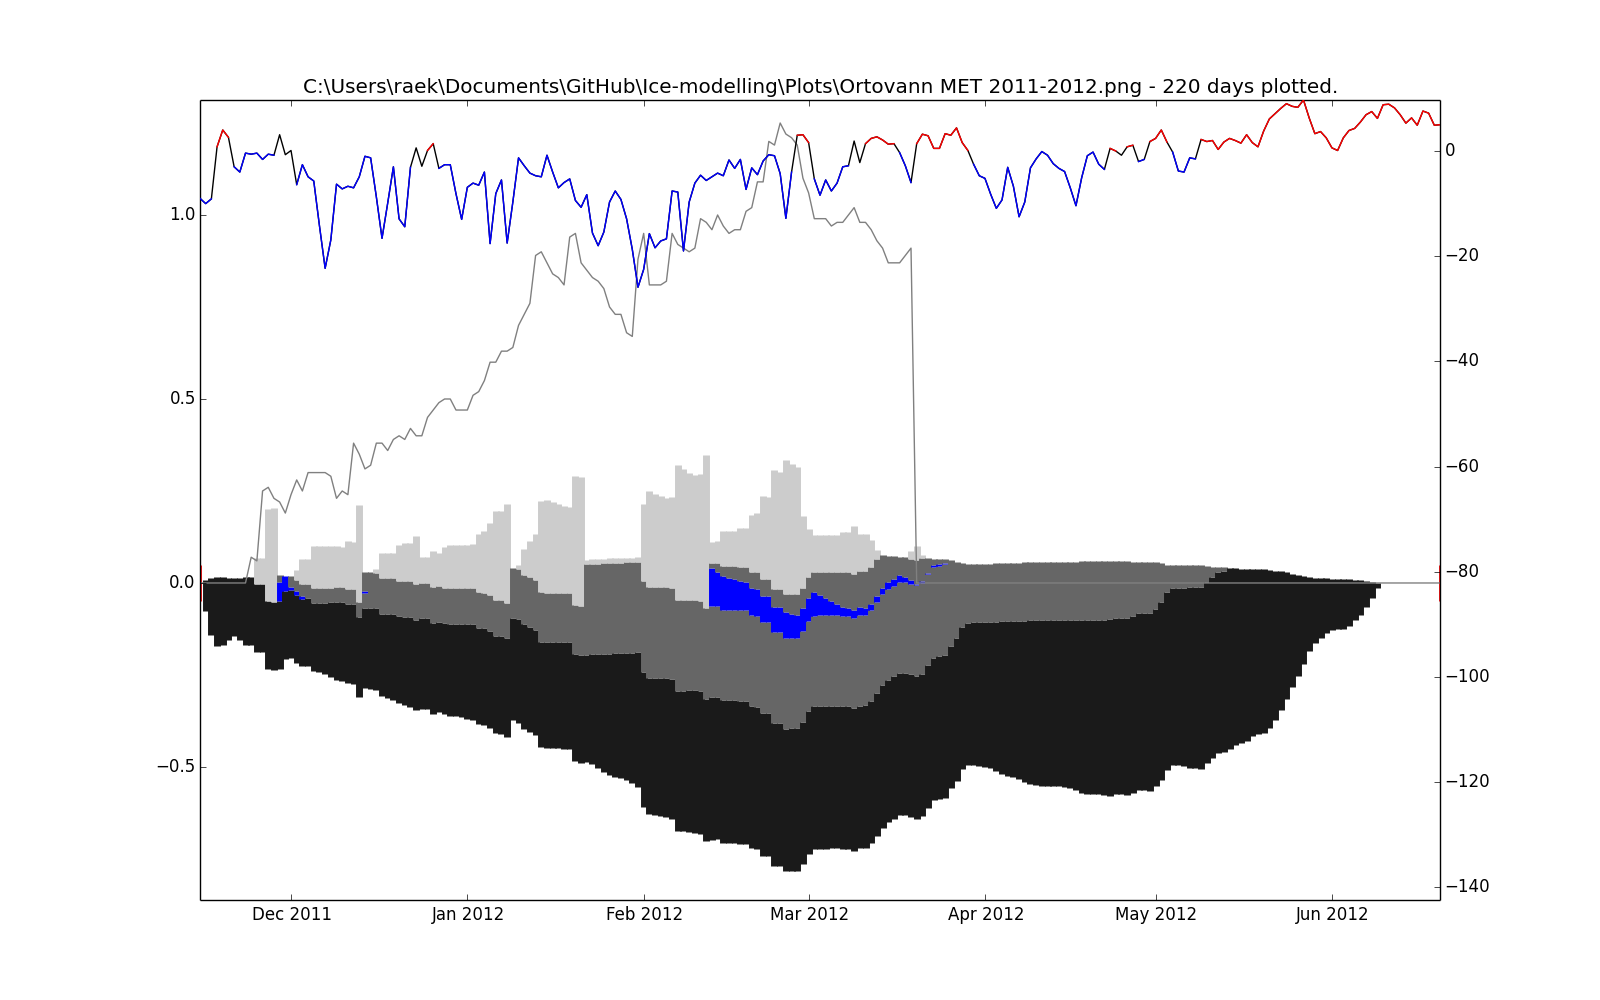
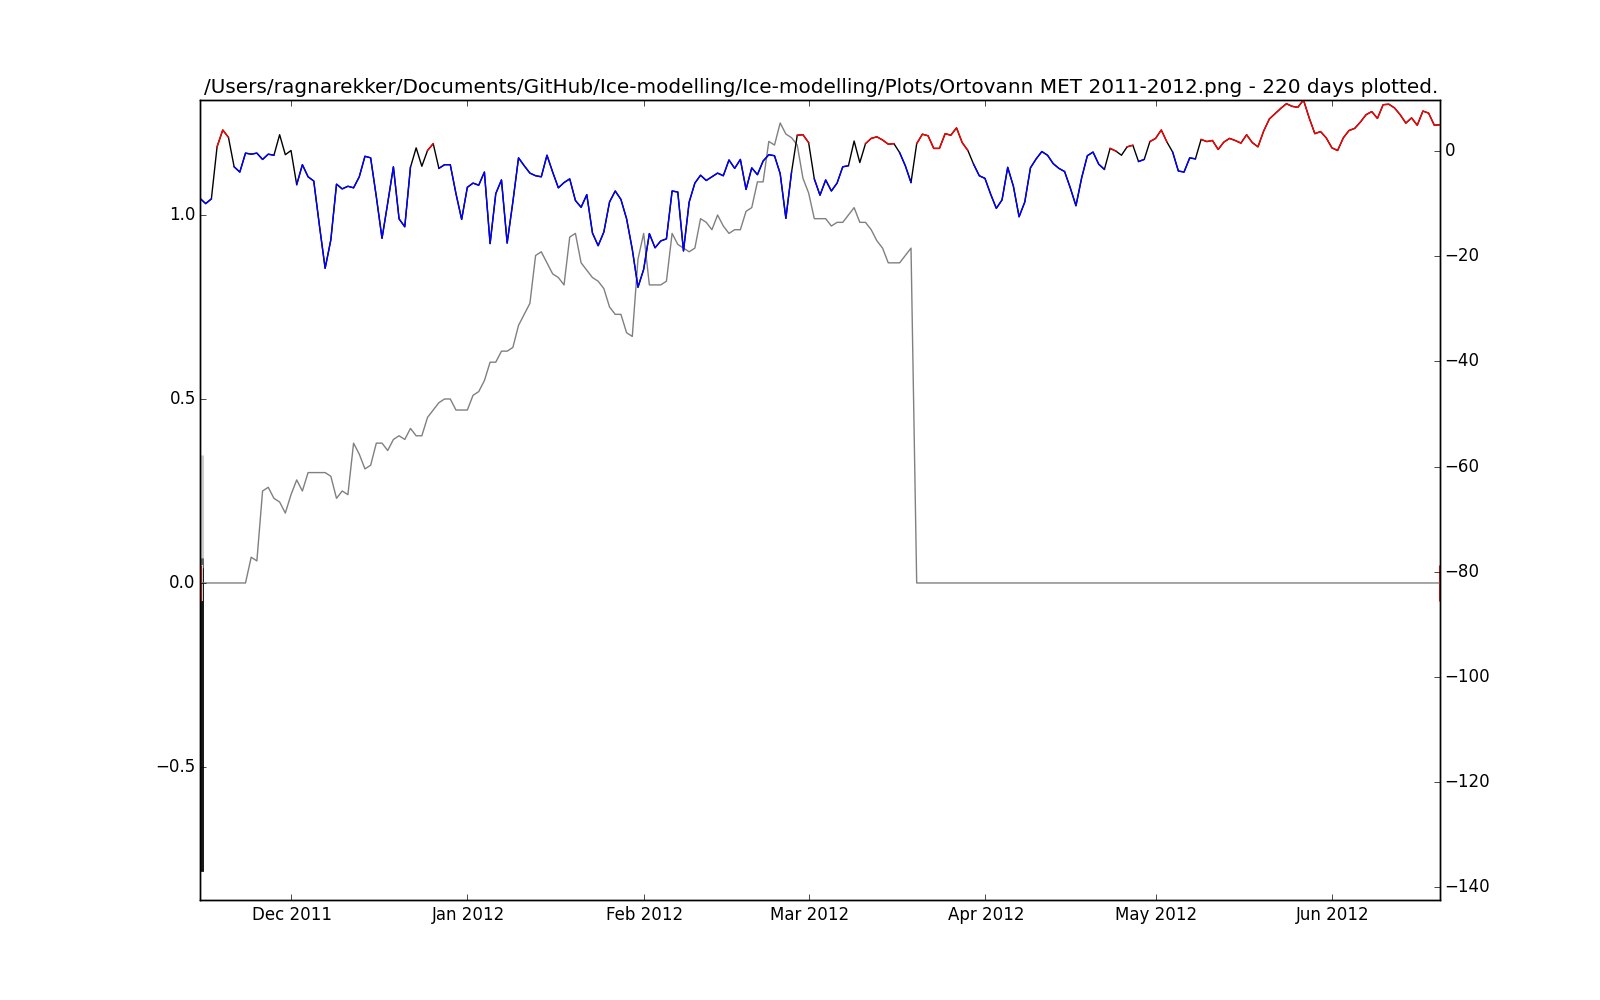
now with avarage column temperatures

Changed region(s): [[0.125, 0.465, 0.875, 0.868], [0.125, 0.062, 0.9062, 0.093]]

diff --git a/Ice-modelling/IceColumn.py b/Ice-modelling/IceColumn.py
@@ -30,10 +30,12 @@ class IceColumn:
         self.draft_thickness = -1       # This is ice, slushice and slush layers. I.e. not snow layers
         self.metadata = {}              # Metadata given as dictionary {key:value , key:value, ... }
         self.top_layer_is_slush = None  # [Bool] True if top layer is slush. False if not.
-        self.column_average_temperature = [0,0,0,0,0,0]  # average temp as average og atm and 0 weighted over last fiew days
+        self.column_average_temperature = 0
+        self.last_days_temp_atm = [0,0,0,0,0]   # index zero is current and 1 is yesturday etc.
 
         ### initialize waterline better
         ### calculate old height of draft better with use of density? and the old snow layers?
+        ### inttroduce layer.type, layer.height, layer.temp
 
         if column_inn == 0:         # the case of no ice
             self.column = list()
@@ -43,6 +45,7 @@ class IceColumn:
             self.column = column_inn
             self.water_line = -1
             self.draft_thickness = -1
+
 
     def set_constants(self):
         '''
@@ -106,11 +109,14 @@ class IceColumn:
         self.min_slush_change = 0.05         # If slushlevelchange is lower than this value the no new slushlevel is made
         self.snow_to_slush_ratio = 0.33      # when snow becomes slush when water is pulled up it also is compressed
 
+
     def add_metadata(self, key, value):
         self.metadata[key] = value
 
+
     def set_water_line(self, water_line_inn):
         self.water_line = water_line_inn
+
 
     def addLayerAtIndex(self, index, height, layertype):
         '''
@@ -130,9 +136,11 @@ class IceColumn:
             else:
                 self.column.insert(index, [height, layertype])
 
+
     def removeLayerAtIndex(self, index):
         # Removes a layer at a given index
         self.column.pop(index)
+
 
     def timestepForward(self, timestep):
         '''
@@ -141,6 +149,7 @@ class IceColumn:
         :return:
         '''
         self.date = self.date + datetime.timedelta(seconds = timestep)
+
 
     def mergeAndRemoveExcessLayers(self):
         '''
@@ -207,40 +216,73 @@ class IceColumn:
 
 
     def update_column_average_temperature(self, temp_atm):
-        '''INCOMPLETE
-        Avg temperature of the column for Longwave purposes
-        Se update_column_temperatures for attempt to get the layer temps esitmated.
+        '''Average temperature of the column. The teory is:
 
-        Should do: Layers as class: layer.type, layer.temp, layer.thick
+                temp_avg = ( sum_n(temp_atm * weight_n) / sum_n(weight_n) )/2
 
-        Column temp cant be above 0
-        weight should reflect thickness
+        We devide by 2 from the asumption that there is a linear temperature gradient in the column and
+        at thte botonm it is water at 0C.
+
+        Method takes into account column thickness to how quick its temperature shifts according to
+        the atmospheric temperature.
+
+        I do calculations in Kelvin so that days with 0C in are taken into account.
+
         :param temp_atm:
         :return:
 
         '''
+
         absolute_zero = -273.15  # 0K is -273.15C
+        max_h_thin_layer = 0.3      # in meter
+        medium_weights = [5,2]
+        max_h_medium_layer = 1.     # in meter
+        thick_weighs = [5,3,2,1]
 
-        self.column_average_temperature.insert(1, temp_atm)
-        self.column_average_temperature.pop(-1)
+        # first index is avg temp. The next indexes are todays temperature, yesturdays temp, etc.
+        self.last_days_temp_atm.insert(0, temp_atm)
+        self.last_days_temp_atm.pop(-1)
 
-        avgTemp = 0
+        # effect of temperature o column is depending on column thickness
+        total_thick = 0
+        for l in self.column:
+            total_thick = total_thick + l[0]
 
-        weight = [5,2,1]
-        weight_sum = sum(weight)
+        avg_temp = 0
 
-        for i in range(0, len(weight), 1):
-            w_i = weight[i]
-            temp_i = self.column_average_temperature[i+1] - absolute_zero
-            avgTemp = avgTemp + temp_i * w_i
+        # Thinlayer case
+        if total_thick < max_h_thin_layer:
+            avg_temp = temp_atm - absolute_zero
 
-        avgTemp = avgTemp/weight_sum
+        # Medium layer case
+        elif (total_thick >= max_h_thin_layer) and (total_thick < max_h_medium_layer):
+            weight = medium_weights
+            weight_sum = sum(weight)
+            for i in range(0, len(weight), 1):
+                w_i = weight[i]
+                temp_i = self.last_days_temp_atm[i] - absolute_zero
+                avg_temp = avg_temp + temp_i * w_i
+            avg_temp = avg_temp/weight_sum
 
-        avg_temp_out = (avgTemp + absolute_zero)/2
-        self.column_average_temperature[0] = avg_temp_out
+        # Thick layer case
+        else:
+            weight = thick_weighs
+            weight_sum = sum(weight)
+            for i in range(0, len(weight), 1):
+                w_i = weight[i]
+                temp_i = self.last_days_temp_atm[i] - absolute_zero
+                avg_temp = avg_temp + temp_i * w_i
+            avg_temp = avg_temp/weight_sum
+
+        # avg_temp is also effected by water temp (0C)
+        avg_temp_out = (avg_temp + absolute_zero)/2
+
+        # snow and ice isnt above 0C
+        if avg_temp_out > 0.: avg_temp_out = 0.
+
+        self.column_average_temperature = avg_temp_out
 
         return
-
 
 
     def update_slush_level(self):
@@ -316,6 +358,7 @@ class IceColumn:
         self.mergeAndRemoveExcessLayers()
         self.update_water_line()     # due to the snow pulling water up in the snow the waterline is shifted since before uppdatig the slushlevel
 
+
     def update_draft_thickness(self):
         '''
         Method updates the iceColumns draft_thickness variable. The draft height given by summing ice, slush ice and
@@ -334,6 +377,7 @@ class IceColumn:
 
         self.draft_thickness = draft_thickness
 
+
     def update_water_line(self):
         '''
         Method updates the iceColumns water line variable. This is the distance from the bottom of the ice to the
@@ -347,6 +391,7 @@ class IceColumn:
             column_mass = column_mass + l[0]*self.getRho(l[1])     # height*density = [kg/m2]
         water_line = column_mass/self.rho_water        # [kg/m2]*[m3/kg]
         self.water_line = water_line
+
 
     def update_top_layer_is_slush(self):
         '''
@@ -365,6 +410,7 @@ class IceColumn:
             else:
                 self.top_layer_is_slush = False
                 return False
+
 
     def mergeSnowlayersAndCompress(self, temp_atm):
         '''
@@ -420,6 +466,7 @@ class IceColumn:
             h_snow_new = self.column[0][0] / self.rho_snow * rho_snow_old    # Asume a inverse linear correlation between density and the height (preservation og mass?)
             self.column[0][0] = h_snow_new
 
+
     def getConductivity(self, type):
         # returns the conductivity for a given snow or ice type
 
@@ -432,6 +479,7 @@ class IceColumn:
         elif type == 'water': return self.k_water
         elif type == 'unknown': return self.k_slush_ice
         else: return self.k_slush_ice
+
 
     def getRho(self, type):
         # returns the density for a given snow or ice type
@@ -446,6 +494,7 @@ class IceColumn:
         elif type == 'unknown': return self.rho_slush_ice
         else: return self.rho_slush_ice
 
+
     def getEnum(self, type):
         # returns the enum used for a given snow or ice type
 
@@ -459,6 +508,7 @@ class IceColumn:
         elif type == 'unknown': return self.enum_slush_ice
         else: return self.enum_NA
 
+
     def getColour(self, type):
         # returns the color used for plotting a given snow or ice type
 
@@ -471,6 +521,7 @@ class IceColumn:
         elif type == 'water': return "red"
         elif type == 'unknown': return "orange"
         else: return "yellow"
+
 
 def tests():
     # some tests of the functions in the IceColumn.py file

diff --git a/Ice-modelling/runIceThickness.py b/Ice-modelling/runIceThickness.py
@@ -7,7 +7,7 @@ import datetime as dt
 
 import calculateIceThickness as itc
 import calculateParameterization as pz
-import IceColumn as ic
+import IceColumn as col
 import WeatherElement as we
 import getRegObsdata as gro
 import getFiledata as gfd
@@ -86,7 +86,7 @@ def runOrovannMET(startDate, endDate):
     observed_ice = gro.getAllSeasonIce(location_name, startDate, endDate)
 
     if len(observed_ice) == 0:
-        icecover = calculateIceCover(ic.IceColumn(date[0], []), date, temp, sno)
+        icecover = calculateIceCover(col.IceColumn(date[0], []), date, temp, sno)
     else:
         icecover = calculateIceCover(copy.deepcopy(observed_ice[0]), date, temp, sno)
 
@@ -116,7 +116,7 @@ def runSemsvann(startDate, endDate):
     #observed_ice = importColumns(observed_ice_filename)
     observed_ice = gro.getAllSeasonIce(LocationName, startDate, endDate)
     if len(observed_ice) == 0:
-        icecover = calculateIceCover(ic.IceColumn(date[0], []), date, temp, sno, cc)
+        icecover = calculateIceCover(col.IceColumn(date[0], []), date, temp, sno, cc)
     else:
         icecover = calculateIceCover(copy.deepcopy(observed_ice[0]), date, temp, sno, cc)
 
@@ -143,7 +143,7 @@ def runHakkloa(startDate, endDate):
     observed_ice = gro.getAllSeasonIce(LocationName, startDate, endDate)
 
     if len(observed_ice) == 0:
-        ice_cover = calculateIceCover(ic.IceColumn(date[0], []), date, temp, sno, cc)
+        ice_cover = calculateIceCover(col.IceColumn(date[0], []), date, temp, sno, cc)
     else:
         ice_cover = calculateIceCover(copy.deepcopy(observed_ice[0]), date, temp, sno, cc)
 
@@ -172,7 +172,7 @@ def runSkoddebergvatnet(startDate, endDate):
     observed_ice = gro.getAllSeasonIce(LocationName, startDate, endDate)
 
     if len(observed_ice) == 0:
-        ice_cover = calculateIceCover(ic.IceColumn(date[0], []), date, temp, sno, cc)
+        ice_cover = calculateIceCover(col.IceColumn(date[0], []), date, temp, sno, cc)
     else:
         ice_cover = calculateIceCover(copy.deepcopy(observed_ice[0]), date, temp, sno, cc)
 
@@ -204,7 +204,7 @@ def runGiljastolsvatnet(startDate, endDate):
     observed_ice = gro.getAllSeasonIce(LocationNames, startDate, endDate)
 
     if len(observed_ice) == 0:
-        ice_cover = calculateIceCover(ic.IceColumn(date[0], []), date, temp, sno, cc)
+        ice_cover = calculateIceCover(col.IceColumn(date[0], []), date, temp, sno, cc)
     else:
         ice_cover = calculateIceCover(copy.deepcopy(observed_ice[0]), date, temp, sno, cc)
 
@@ -234,7 +234,7 @@ def runBaklidammen(startDate, endDate):
     observed_ice = gro.getAllSeasonIce(LocationNames, startDate, endDate)
 
     if len(observed_ice) == 0:
-        ice_cover = calculateIceCover(ic.IceColumn(date[0], []), date, temp, sno, cc)
+        ice_cover = calculateIceCover(col.IceColumn(date[0], []), date, temp, sno, cc)
     else:
         ice_cover = calculateIceCover(copy.deepcopy(observed_ice[0]), date, temp, sno, cc)
 
@@ -264,7 +264,7 @@ def runStorvannetHammerfest(startDate, endDate):
     observed_ice = gro.getAllSeasonIce(LocationNames, startDate, endDate)
 
     if len(observed_ice) == 0:
-        ice_cover = calculateIceCover(ic.IceColumn(date[0], []), date, temp, sno, cc)
+        ice_cover = calculateIceCover(col.IceColumn(date[0], []), date, temp, sno, cc)
     else:
         ice_cover = calculateIceCover(copy.deepcopy(observed_ice[0]), date, temp, sno, cc)
 

diff --git a/Ice-modelling/WeatherElement.py b/Ice-modelling/WeatherElement.py
@@ -3,6 +3,7 @@ __author__ = 'raek'
 
 import datetime
 
+
 def stripMetadata(weather_element_list, get_dates):
     """
     Method takes inn a list of WeatherElement objects and strips away all metadata. A list of values is returned and if
@@ -33,6 +34,7 @@ def stripMetadata(weather_element_list, get_dates):
 
         return valueList
 
+
 def okta2unit(cloud_cover_in_okta_list):
     """
     Cloudcover from met.no is given in units of okta. Numbers 1-8. This method converts that list to values of units
@@ -57,6 +59,7 @@ def okta2unit(cloud_cover_in_okta_list):
 
     return cloudCoverInUnitsList
 
+
 def cm2m(weather_element_list):
     """
 
@@ -71,6 +74,7 @@ def cm2m(weather_element_list):
         weatherElementListSI.append(we)
 
     return weatherElementListSI
+
 
 def makeDailyAvarage(weather_element_list):
     """
@@ -139,6 +143,7 @@ def makeDailyAvarage(weather_element_list):
 
     return newWeatherElementList
 
+
 def avarageValue(weather_element_list, lower_index, upper_index):
     """
     The method will return the avarage value of a list or part of a list with weatherElements
@@ -159,6 +164,7 @@ def avarageValue(weather_element_list, lower_index, upper_index):
     avgToReturn = avgToReturn/(upper_index-lower_index)
 
     return avgToReturn
+
 
 class WeatherElement():
 
